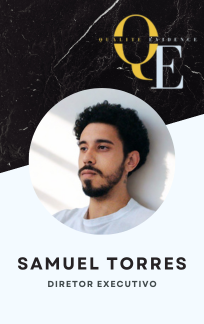
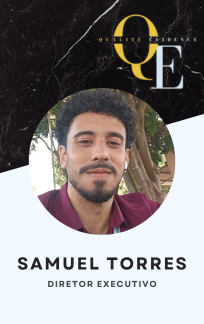
links de wpp e instagram. Foto samuel atualizada

Changed region(s): [[0.1471, 0.2469, 0.8824, 0.7407]]

diff --git a/rubia.html b/rubia.html
@@ -21,11 +21,11 @@
 
         <!-- Action Links -->
         <main class="links-container">
-            <a href="https://wa.me/" target="_blank" class="link-btn btn-whatsapp">
+            <a href="https://wa.me/556192644142" target="_blank" class="link-btn btn-whatsapp">
                 <i class="fab fa-whatsapp"></i>
                 <span>Fale com a Presidente</span>
             </a>
-            <a href="#" target="_blank" class="link-btn">
+            <a href="https://www.instagram.com/qualiteseguros.oficial/" target="_blank" class="link-btn">
                 <i class="fab fa-instagram"></i>
                 <span>Instagram</span>
             </a>

diff --git a/joao.html b/joao.html
@@ -21,11 +21,11 @@
 
         <!-- Action Links -->
         <main class="links-container">
-            <a href="https://wa.me/" target="_blank" class="link-btn btn-whatsapp">
+            <a href="https://wa.me/556181269780" target="_blank" class="link-btn btn-whatsapp">
                 <i class="fab fa-whatsapp"></i>
                 <span>Fale com João Pedro</span>
             </a>
-            <a href="#" target="_blank" class="link-btn">
+            <a href="https://www.instagram.com/qualiteseguros.oficial/" target="_blank" class="link-btn">
                 <i class="fab fa-instagram"></i>
                 <span>Instagram</span>
             </a>

diff --git a/bernardo.html b/bernardo.html
@@ -21,11 +21,11 @@
 
         <!-- Action Links -->
         <main class="links-container">
-            <a href="https://wa.me/" target="_blank" class="link-btn btn-whatsapp">
+            <a href="https://wa.me/556182947901" target="_blank" class="link-btn btn-whatsapp">
                 <i class="fab fa-whatsapp"></i>
                 <span>Fale com o Bernardo</span>
             </a>
-            <a href="#" target="_blank" class="link-btn">
+            <a href="https://www.instagram.com/qualiteseguros.oficial/" target="_blank" class="link-btn">
                 <i class="fab fa-instagram"></i>
                 <span>Instagram</span>
             </a>

diff --git a/rodney.html b/rodney.html
@@ -21,11 +21,11 @@
 
         <!-- Action Links -->
         <main class="links-container">
-            <a href="https://wa.me/" target="_blank" class="link-btn btn-whatsapp">
+            <a href="https://wa.me/556195555625" target="_blank" class="link-btn btn-whatsapp">
                 <i class="fab fa-whatsapp"></i>
                 <span>Fale com Rodney</span>
             </a>
-            <a href="#" target="_blank" class="link-btn">
+            <a href="https://www.instagram.com/qualiteseguros.oficial/" target="_blank" class="link-btn">
                 <i class="fab fa-instagram"></i>
                 <span>Instagram</span>
             </a>

diff --git a/samuel.html b/samuel.html
@@ -21,11 +21,11 @@
 
         <!-- Action Links -->
         <main class="links-container">
-            <a href="https://wa.me/" target="_blank" class="link-btn btn-whatsapp">
+            <a href="https://wa.me/556181835842" target="_blank" class="link-btn btn-whatsapp">
                 <i class="fab fa-whatsapp"></i>
                 <span>Fale com Samuel</span>
             </a>
-            <a href="#" target="_blank" class="link-btn">
+            <a href="https://www.instagram.com/qualiteseguros.oficial/" target="_blank" class="link-btn">
                 <i class="fab fa-instagram"></i>
                 <span>Instagram</span>
             </a>
